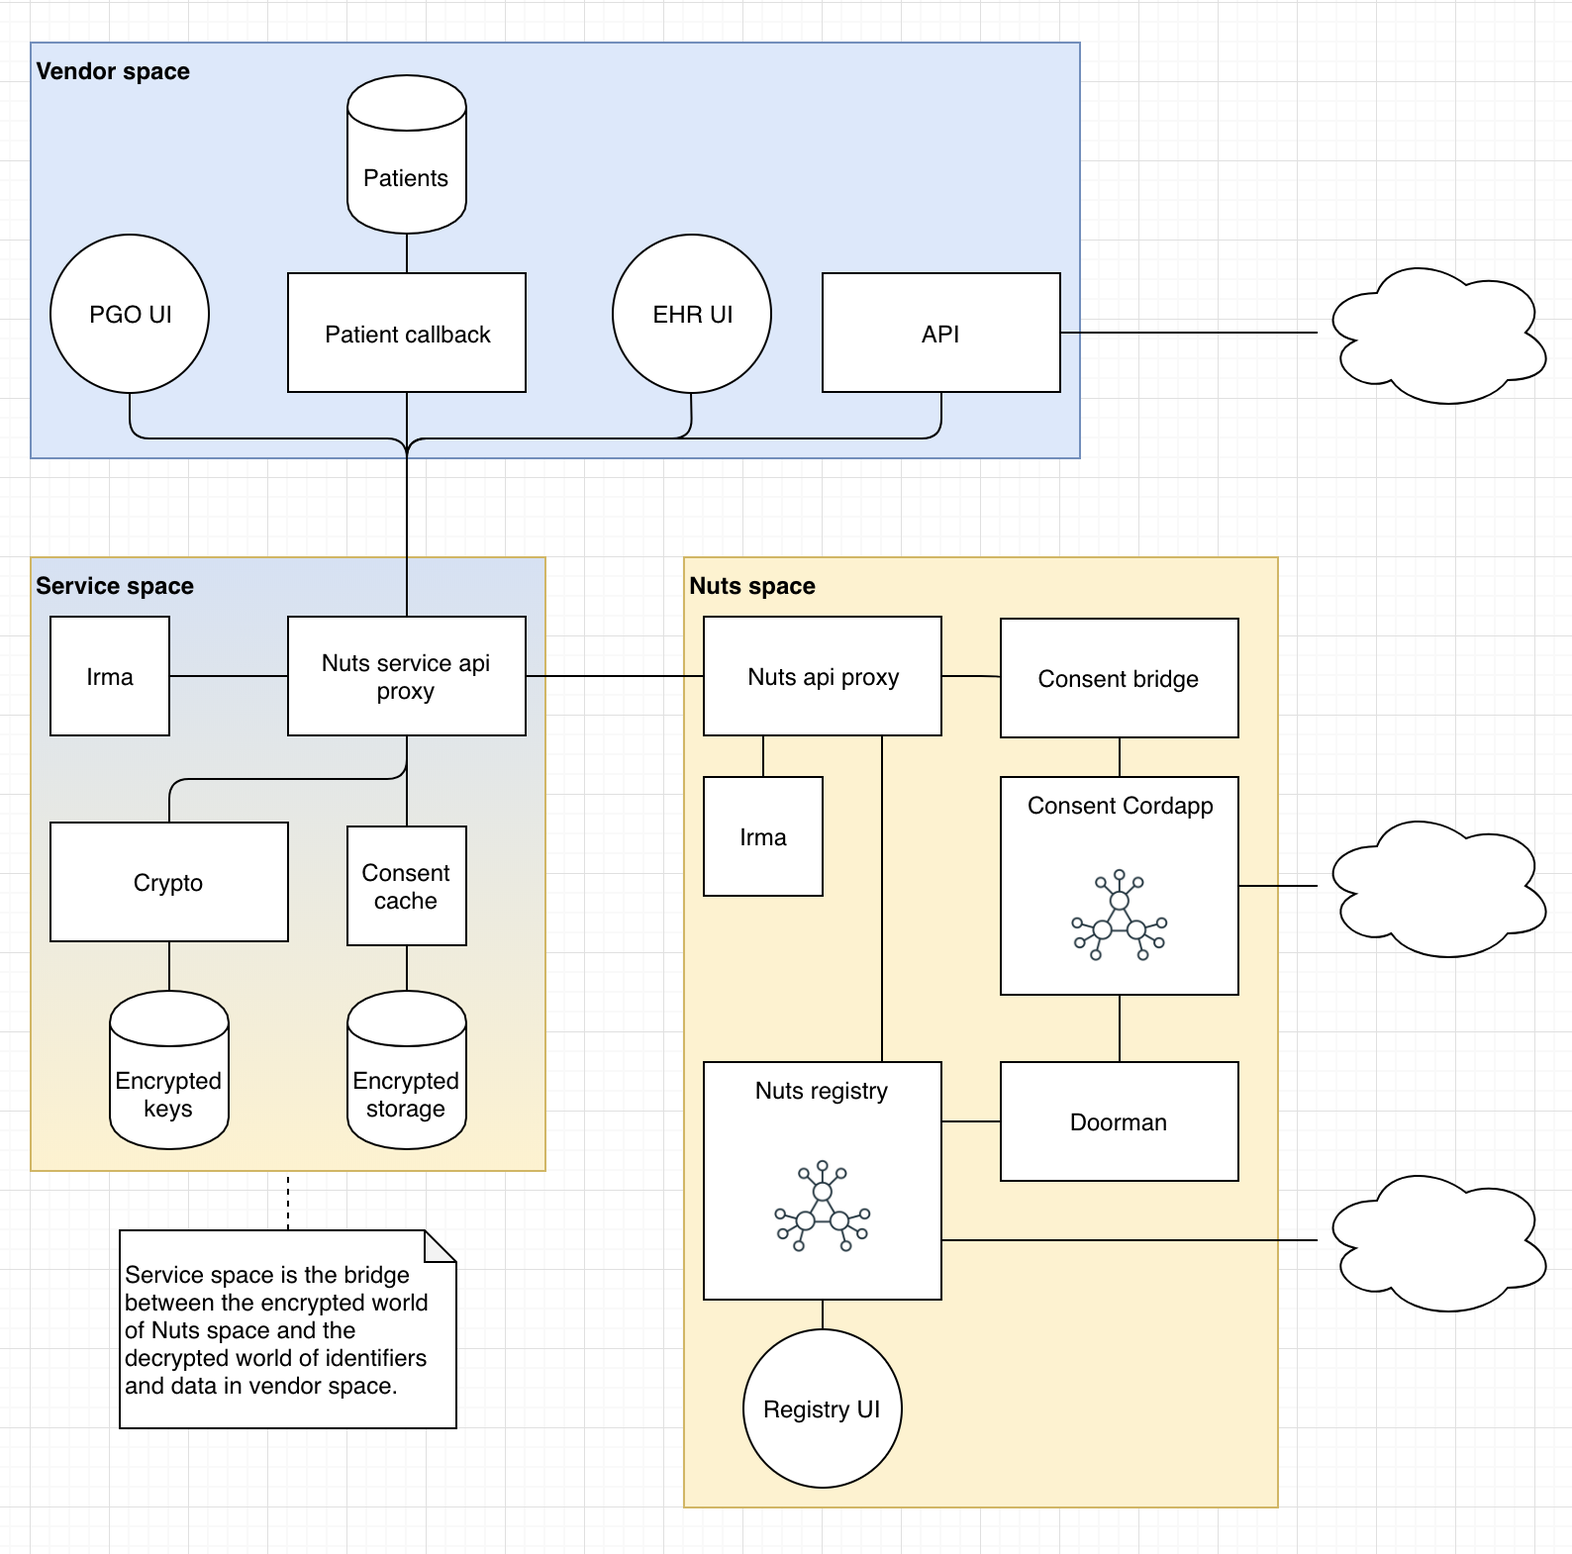
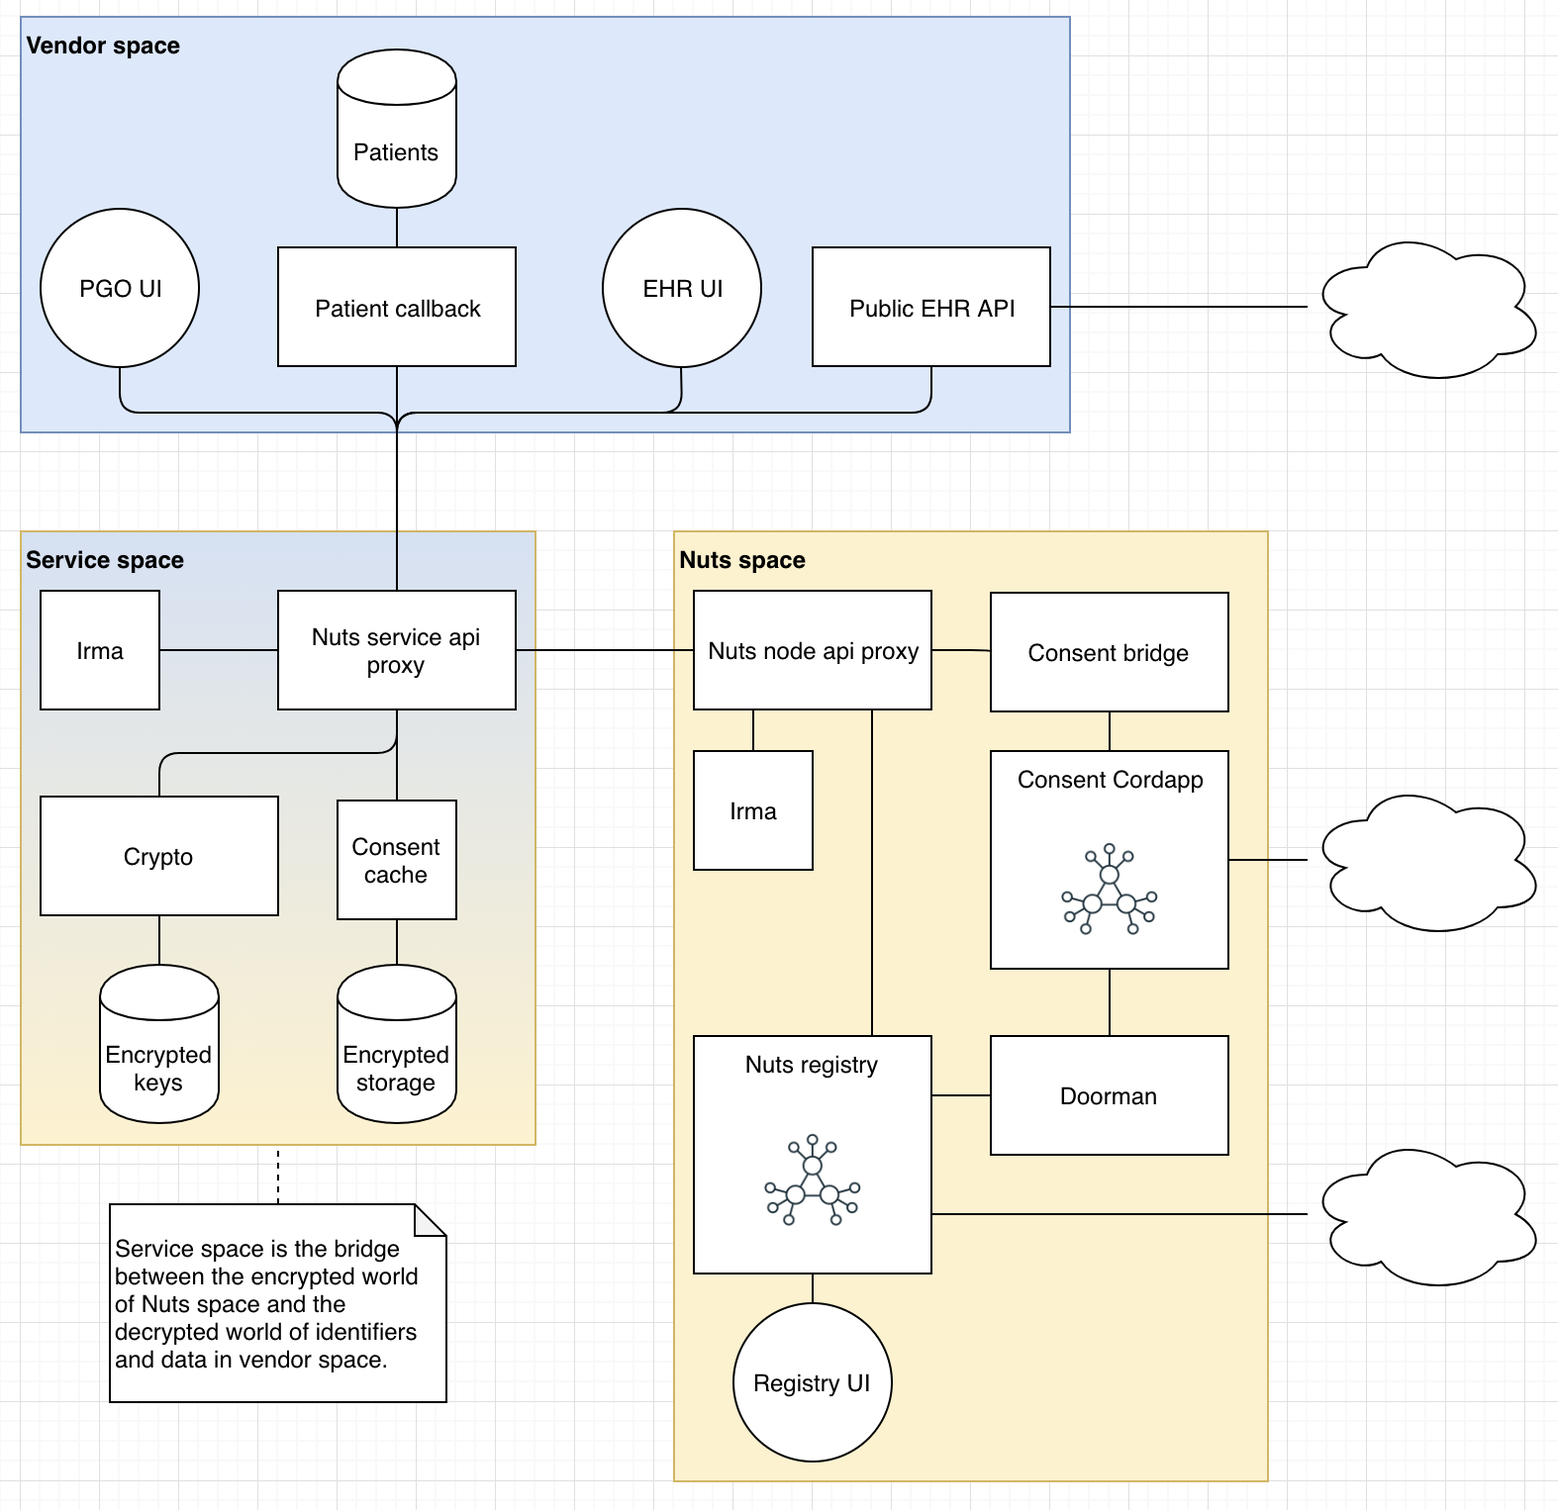
Processed comments.

diff --git a/pages/architecture.rst b/pages/architecture.rst
@@ -2,10 +2,7 @@
 High level architecture
 #######################
 
-The image below is a first attempt to identify all the required components for making Nuts work. The three different
-*spaces* are explained in the equally named chapters. All interfaces between components will have a specification.
-Each vendor has the choice to follow this reference implementation or just use the individual components
-(mix-and-match).
+The image below is a first attempt to identify all the required components for making Nuts work. All interfaces between components will have a specification. Each vendor has the choice to implements their own components following the spec or just use the components provided by Nuts (mix-and-match).
 
 .. figure:: /_static/images/high_level_architecture.png
     :width: 600px
@@ -15,24 +12,20 @@ Each vendor has the choice to follow this reference implementation or just use t
 
     Nuts components
 
+At first glance, the different components are divided into three different *spaces*. This is done to distinguish between different levels of trust and (probably) different non-functional requirements like scaling. *Vendor space* has the highest level of trust. It includes both personal and medical data. Any components required to make Nuts work **must** be implemented by the vendor. *Service space* is also a trusted space since it'll include decrypted personal data, but not medical data. Since it consists of quite a few components a vendor can buy this as part of a service package from a different vendor. For example, a simple PGO might want get a subscription to a SaaS service which includes both *Service space* and *Nuts space* which only requires the PGO to implement the *Patient callback*. *Service space* also handles the administration of all the certificate logic for TLS connections. *Nuts space* only contains encrypted personal data and decrypted personal data that has already been made public. The primary goal of *Nuts space* is to make sure all required data for running the Nuts network is distributed across all nodes without any centrally controlled component. This notion of different service levels allows smaller vendors to connect to Nuts and at the same time provide an opportunity for the current network providers to develop new business.
+
 ************
 Vendor space
 ************
 
-*Vendor space* contains all the components that **must** be implemented by each vendor with exception of the PGO UI.
-Most of the components will already be available since they are part of the EHR. Each of the components will be
-explained further in the following sections.
+*Vendor space* contains all the components that **must** be implemented by each vendor with exception of the PGO UI. Most of the components will already be available since they are part of the EHR. Each of the components will be explained further in the following sections.
 
-API
+Public EHR API
 ===
 
-The *API* is the primary point of data exchange for a care provider. It'll be based on international standards, for
-example: FHIR or CDA. This component is placed in vendor space because the underlying TLS connection will be secured
-with two-way SSL. The control over the certificates should lie with the entity responsible for the data: the
-care provider. Ultimately, it'll be the software vendor who will probably offer this responsibility as a service.
+The *Public EHR API* is the primary point of data exchange for a care provider. It'll be based on international standards, for example: FHIR or CDA. This component is placed in vendor space because the underlying TLS connection will be secured with two-way SSL. The control over the certificates should lie with the entity responsible for the data: the care provider. Ultimately, it'll be the software vendor who will probably offer this responsibility as a service.
 
-The *API* will most likely consist of multiple components in an average production environment. The main responsibilities
-are:
+The *Public EHR API* will most likely consist of multiple components in an average production environment. The main responsibilities are:
 
 * Authentication
 * Consent authorisation
@@ -42,104 +35,58 @@ are:
 Authentication
 --------------
 
-Authentication within Nuts will be provided by an Irma signature. The signature will have a signature text and attached
-attributes used to sign the text. Within the signature text, the requesting application name, the requesting care
-provider, the goal binding and a timestamp must be included. The attributes used to sign the text will identify the
-user. The requesting application name will also be in the CN used in the two-way TLS connection, this ensures that the
-care provider/vendor receiving the request can not use the same signature to request the Nuts network
-(man-in-the-middle). The timestamp ensures a short lived session. All the other information will be used to lookup the
-required consent record.
+Authentication within Nuts will be provided by an `Irma signature <https://credentials.github.io/docs/irma.html#attribute-based-signatures>`_. The signature will have a signature text and attached attributes used to sign the text. Within the signature text, the requesting application name, the requesting care provider, the goal binding and a timestamp must be included. The attributes used to sign the text will identify the user. The requesting application name will also be in the CN used in the two-way TLS connection, this ensures that the care provider/vendor receiving the request can not use the same signature to request the Nuts network (man-in-the-middle). The timestamp ensures a short lived session. All the other information will be used to lookup the required consent record.
 
 Consent authorisation
 ---------------------
 
-The consent check is basically the authorization check for the request. Every consent record basically consists of a
-triple: (care provider, patient, care professional), or 'May the care professional access the data for the patient
-managed by the care provider?' The patient can be acquired by analysing the request, for example within FHIR the BSN
-will be included in the request, the care professional can be determined by the attributes used to generate the
-signature. The query to the consent registry within Nuts will then result in a list of care providers which can be used
-to query the correct data (or not found).
+The consent check is basically the authorization check for the request. Every consent record basically consists of a quadruple: (care provider, patient, care professional, scope), or 'May the care professional access the specific scoped data for the patient managed by the care provider?' The patient can be acquired by analysing the request, for example within FHIR the BSN will be included in the request, the care professional can be determined by the attributes used to generate the signature. The query to the consent registry within Nuts will then result in a list of care providers which can be used to query the correct data (or not found). Access to the specific resource is determined by the scope of the consent.
 
 Data
 ----
 
-If all previous steps have succeeded, the API component can then proceed to fetch and convert the data as requested. The
-initial versions will probably use FHIR as standard of choice.
+If all previous steps have succeeded, the API component can then proceed to fetch and convert the data as requested. The initial versions will probably use FHIR as standard of choice.
 
 Patients DB
 ===========
 
-This *database* represents the patient's personal information and specifically the BSN record. All EHRs will contain this
-information since it's required by law. The data needs to be accessible by the *patient callback* component.
+This *database* represents the patient's personal information and specifically the BSN record. All EHRs will contain this information since it's required by law. The data needs to be accessible by the *patient callback* component.
 
 Patient callback
 ================
 
-This component will mainly be used to check if a patient is receiving care for the given care provider. If, for example,
-this care provider receives consent to access certain patient records from another care provider it can only accept this
-consent is the patient is really a patient there. If not, the BSN may not be stored and the consent request can not be
-accepted. This check can also be used to detect faulty or corrupt Nuts nodes, since a lot of negative results from this
-component may indicate fraud. In a later version of Nuts this can be used for automatic blacklisting of Nuts nodes.
+This component will mainly be used to check if a patient is receiving care for the given care provider. If, for example, this care provider receives consent to access certain patient records from another care provider it can only accept this consent if the patient is really a patient there. If not, the BSN may not be stored and the consent request can not be accepted. This check can also be used to detect faulty or corrupt Nuts nodes, since a lot of negative results from this component may indicate fraud. In a later version of Nuts this can be used for automatic blacklisting of Nuts nodes.
 
 EHR UI
 ======
 
-The EHR UI represents the piece of software the user interacts with. The part that is particular interesting is the
-consent UI. In the early stages of Nuts, the care providers will probably do all the work for gathering the patient
-consent. This means that the EHR needs to have a UI capable of recording this consent.
+The EHR UI represents the piece of software the user interacts with. The part that is particular interesting is the consent UI. In the early stages of Nuts, the care providers will probably do all the work for gathering the patient consent. This means that the EHR needs to have a UI capable of recording this consent.
 
 PGO UI
 ======
 
-This component represents the UI needed for the PGO-inclusion flow. An idea exists where a patient is redirected by a
-PGO to this component to link their PGO identity to a BSN. The vendor can then use the Nuts network to update the
-consent records with the added PGO identity for all existing consent records for that patient. The UI needs to be in
-vendor or service space, otherwise the BSN can not be used. The difference between putting it in vendor or service space
-would be if it's embedded or not. Nuts will provide a reference implemention for placing it in the *service space*.
+This component represents the UI needed for the PGO-inclusion flow. An idea exists where a patient is redirected by a PGO to this component to link their PGO identity to a BSN. The vendor can then use the Nuts network to update the consent records with the added PGO identity for all existing consent records for that patient. The UI needs to be in vendor or service space, otherwise the BSN can not be used. The difference between putting it in vendor or service space would be if it's embedded or not. Nuts will provide a reference implemention for placing it in the *service space*.
 
 *************
 Service space
 *************
 
-*Service space* is a bit of a difficult concept to explain. The choice to implement/host this by the vendor is based on
-different considerations as opposed to implementing *Nuts space*. A vendor can choose to buy the needed Nuts services
-from a service provider. The biggest difference between *service space* and *Nuts space* is that *service space* contains
-**decrypted** data and *Nuts space* only contains **encrypted** data. (Care professional data is available unencrypted
-within the Nuts registry but that data is already made public by other sources). The *service space* also contains
-different private/public key-pairs. The level of trust for *service space* is much higher from the point of
-view of the care provider. Besides data encryption, the components in both spaces have different scalability
-requirements and require a different expertise to maintain.
-
-In the paragraph above, the notion of a service providers is introduced. This is a concept which allows smaller vendors
-to connect to Nuts and at the same time provide an opportunity for the current network providers to develop new
-business.
-
-The different components within *service space* are explained in the following sections.
-
 Nuts service api proxy
 ======================
 
-This is mainly an abstraction component for now, to provide a single endpoint for *vendor space* to communicate with.
-It'll also contain some basic logic in the beginning. For example if it receives an event from the *Nuts api Proxy*
-signalling a new consent record has been added, it'll decrypt the record with the correct key and place it in the cache.
+This is mainly an abstraction component for now, to provide a single endpoint for *vendor space* to communicate with. It'll also contain some basic logic in the beginning. For example if it receives an event from the *Nuts node API proxy* signalling a new consent record has been added, it'll decrypt the record with the correct key and place it in the cache.
 
-It connects to the *Irma* server for checking Irma proofs if those are used to sign a consent record. This can't be done
-in Nuts space since it will then be encrypted.
+It connects to the *Irma* server for checking Irma proofs if those are used to sign a consent record. This can't be done in Nuts space since it will then be encrypted.
 
 Consent cache
 =============
 
-All consent within *Nuts space* is encrypted. The cache will have a unencrypted copy of the records in memory to support
-querying from, for example, the *API*. The attached *encrypted storage* will ensure that this sensitive data is
-encrypted-at-rest.
+All consent within *Nuts space* is encrypted. The cache will have a unencrypted copy of the records in memory to support querying from, for example, the *API*. The attached *encrypted storage* will ensure that this sensitive data is encrypted-at-rest.
 
 Crypto
 ======
 
-The crypto component is an abstraction layer for the encryption/decryption process and the storage for pub/priv
-key-pairs. The abstraction is needed to support the different use-cases. A PGO might choose for file-storage since it'll
-only have a single key-pair. A service provider might choose for a Vault installation because it handles thousands of
-keys.
+The crypto component is an abstraction layer for the encryption/decryption process and the storage for pub/priv key-pairs. The abstraction is needed to support the different use-cases. A PGO might choose for file-storage since it'll only have a single key-pair. A service provider might choose for a Vault installation because it handles thousands of keys.
 
 Irma
 ====
@@ -150,10 +97,7 @@ Generic Irma server for checking Irma proofs.
 Nuts space
 **********
 
-The *Nuts space* consists of two main components: *Consent Cordapp* and the *Nuts registry*. The other components are
-requirements coming from technology choices for these two components. The funky figure within these components indicate
-that they use distributed technology. They basically are a data store without a single owner and the single truth is
-constructed from mutual approved contracts.
+The *Nuts space* consists of two main components: *Consent Cordapp* and the *Nuts registry*. The other components are requirements coming from technology choices for these two components. The funky figure within these components indicate that they use distributed technology. They basically are a data store without a single owner and the single truth is constructed from mutual approved contracts.
 
 Nuts registry
 =============
@@ -177,47 +121,35 @@ Which can be translated to things like:
 * A care professional can only be added to a care provider by the care provider.
 * The personal data of a care professional can only be updated by that care professional.
 
-To guarantee these constraints, cryptographic rules have to be used. Nuts will probably use a combination of
-Irma signatures and digital signatures (PGP) for this.
+To guarantee these constraints, cryptographic rules have to be used. Nuts will probably use a combination of Irma signatures and digital signatures (PGP) for this.
 
 Since the data within the registry is useful for everybody using Nuts, it can use a mesh network to keep in sync.
 
 Registry UI
 ===========
 
-There'll probably be two UI's: one for administrative purposes and one for care professionals to update their
-information. The last will then probably be a reference implementation provided by Nuts, since vendors can offer such an
-interface from within their own products.
+There'll probably be two UI's: one for administrative purposes and one for care professionals to update their information. The last will then probably be a reference implementation provided by Nuts, since vendors can offer such an interface from within their own products.
 
 Doorman
 =======
 
-*Doorman* is a Corda concept. It translates Nuts endpoint information to the required Corda format. It'll use data from
-the registry to automatically detect new Nuts nodes.
+*Doorman* is a Corda concept. It translates Nuts endpoint information to the required Corda format. It'll use data from the registry to automatically detect new Nuts nodes.
 
 Consent Cordapp
 ===============
 
-The Corda node which will store all the consent records. Corda has currently been chosen to store the consent. It's
-unique ability to only include nodes that are part of the consent in the transaction makes it ideal to synchronize
-personal information. Although the data itself is encrypted, having it all over the place just isn't a good idea.
-Another plus is that it requires a third party to also acknowledge the transaction (the notary). It can even use a
-voting scheme to include multiple random notaries. This means that the control over all transactions lies with the
-community and not a single party.
+The Corda node which will store all the consent records. Corda has currently been chosen to store the consent. It's unique ability to only include nodes that are part of the consent in the transaction makes it ideal to synchronize personal information. Although the data itself is encrypted, having it all over the place just isn't a good idea. Another plus is that it requires a third party to also acknowledge the transaction (the notary). It can even use a voting scheme to include multiple random notaries. This means that the control over all transactions lies with the community and not a single party.
 
-For every transaction, each involved node needs to approve the transaction according to the logic in the contract. This
-will rely on data available in the *Nuts registry* or even the *patient callback*, proxied through *service space* for
-decryption. This will prevent data to scatter all over the place.
+For every transaction, each involved node needs to approve the transaction according to the logic in the contract. This will rely on data available in the *Nuts registry* or even the *patient callback*, proxied through *service space* for decryption. This will prevent data to scatter all over the place.
 
 The model of the consent record will probably be inspired on the consent FHIR model and future legislation.
 
 Consent bridge
 ==============
 
-The bridge is an abstraction layer for translating the Java specific format from the *Consent Cordapp* to something more
-usefull for different vendors. This will allow different vendors to be able to use their own technology stack.
+The bridge is an abstraction layer for translating the Java specific format from the *Consent Cordapp* to something more usefull for different vendors. This will allow different vendors to be able to use their own technology stack.
 
-Nuts api proxy
+Nuts node API proxy
 ==============
 
 Place holder for single abstract point. The future will proof if this component is needed.
